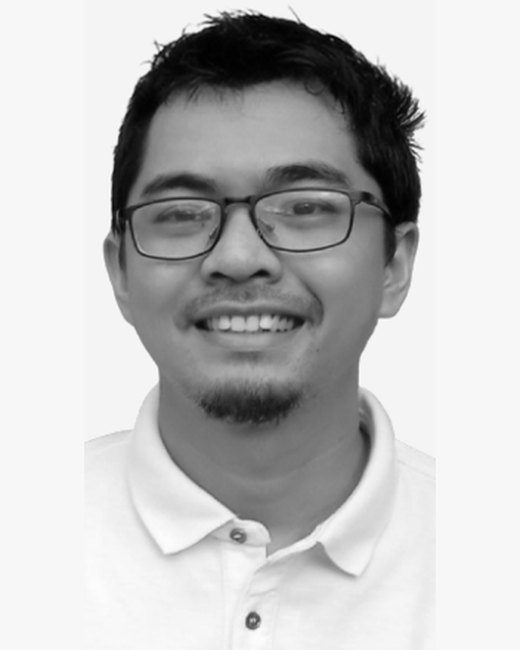
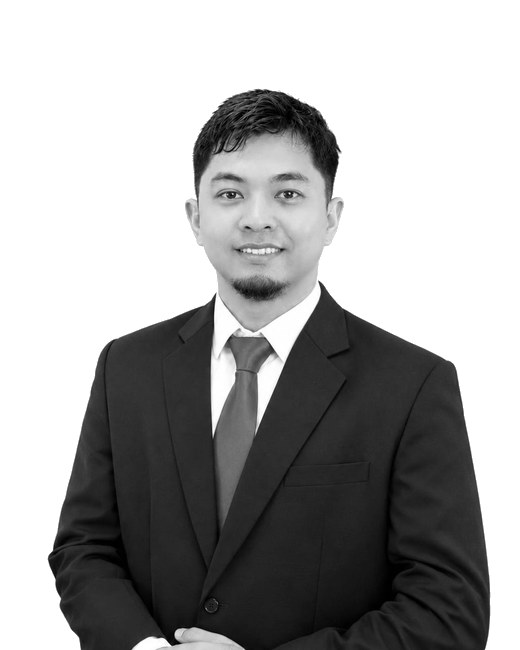
Foto Alvin diganti potret baru, dua bentuk mengikuti tempatnya
Foto baru dari pemilik, satu berkas untuk dua tempat yang bentuknya memang
berbeda.

Halaman About memakai 620x826 BERWARNA, sebab halamannya sendiri yang
memberi saringan abu abu waktu menayangkannya.

Tiga app memakai 520x650 ABU ABU DENGAN LATAR PUTIH, mengikuti kartu Andreas
dan Farras yang memang begitu bentuknya. Latar studionya yang abu muda
disiram putih dari tepi, terukur pojoknya 255 rata, jadi dia duduk sebaris
dengan dua kartu lain tanpa kelihatan ditempel.

Blok Team di landing juga menyebut berkas ini, tapi blok itu sudah
dinonaktifkan sejak Team diganti Instrumen 27 September, jadi tidak ada yang
berubah di sana.

Foto Alvin lama di tiga app itu potret berkacamata berkaus putih, beda
dengan foto berjas di About, padahal dua duanya berlabel Alvin Pratama.
Diseragamkan ke potret baru.

sw Atmosight v45, Smokewatch v35.

diff --git a/smokewatch/sw.js b/smokewatch/sw.js
@@ -1,7 +1,7 @@
 /* Service worker Smokewatch — cache SHELL app (berversi), data cuaca TETAP
  * online. Naikkan VERSION tiap rilis frontend agar user dapat versi terbaru
  * (cache lama dihapus saat activate). */
-const VERSION = "v34";
+const VERSION = "v35";
 const CACHE = "kertas-emisi-" + VERSION;
 
 // Saat REVIEW LOKAL, jangan cache shell sama sekali. Strategi cache-first membuat

diff --git a/atmosight/sw.js b/atmosight/sw.js
@@ -1,7 +1,7 @@
 /* Service worker Atmosight — cache SHELL app (berversi), data cuaca TETAP
  * online. Naikkan VERSION tiap rilis frontend agar user dapat versi terbaru
  * (cache lama dihapus saat activate). */
-const VERSION = "v44";
+const VERSION = "v45";
 const CACHE = "kertas-cuaca-" + VERSION;
 
 // Saat REVIEW LOKAL, jangan cache shell sama sekali. Strategi cache-first membuat
